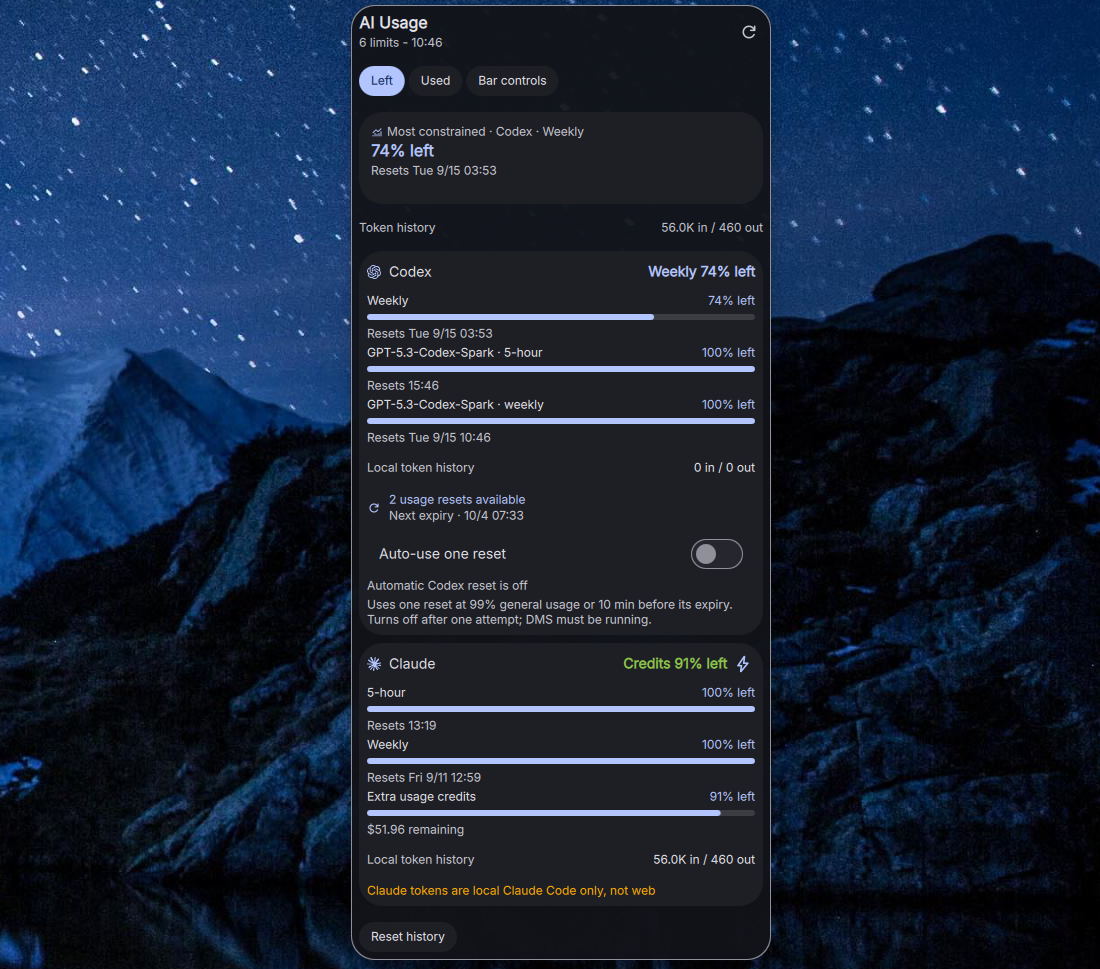
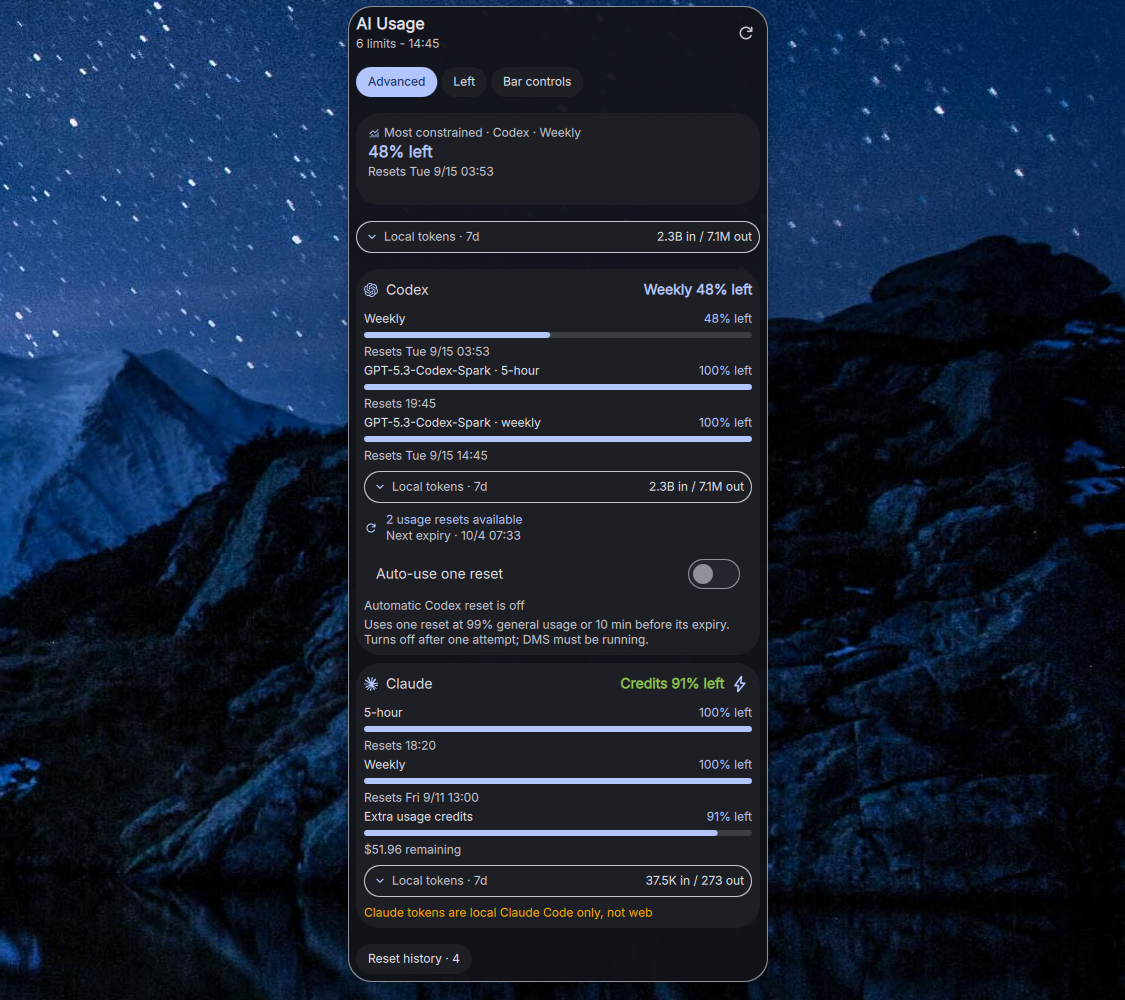
docs: refresh advanced and simple dropdown screenshots

diff --git a/README.md b/README.md
@@ -4,7 +4,9 @@ DankAIUsage is a [DankMaterialShell](https://github.com/AvengeMedia/DankMaterial
 widget for Codex and Claude subscription quotas, extra-usage credits, and local
 token history. A small Go helper collects usage for the widget.
 
-![AI Usage dropdown with Codex and Claude quotas, display toggles, and reset controls](docs/screenshot.png)
+![Advanced dropdown with Codex and Claude quotas, local token history, and reset controls](docs/screenshot.png)
+
+![Simple dropdown focused on Codex and Claude quotas](docs/screenshot-simple.png)
 
 ![AI Usage on the DankBar with provider logos and minimal quota percentages](docs/screenshot-bar.png)
 
